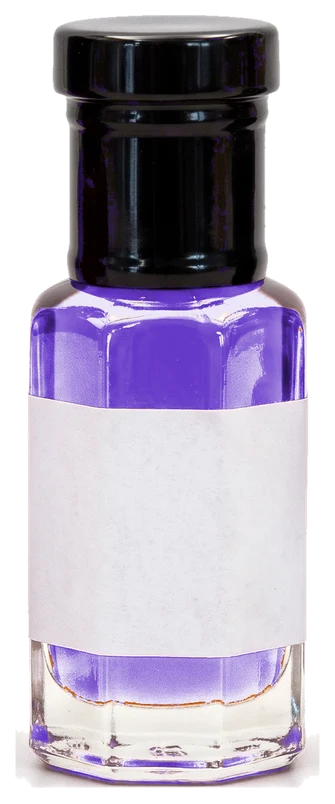
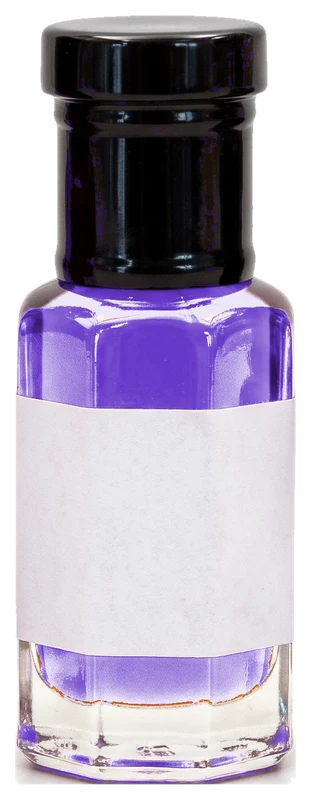
Bottle photos: trim off-white floor reflections beside and under the base; drop the highlight overlay box

Changed region(s): [[0.0289, 0.0312, 0.955, 0.9988], [0.6367, 0.1561, 0.6945, 0.1873], [0.5788, 0.1248, 0.6367, 0.1561]]

diff --git a/components/product/bottle-stage.tsx b/components/product/bottle-stage.tsx
@@ -1,7 +1,7 @@
 "use client";
 
 import { useEffect, useState } from "react";
-import { AnimatePresence, motion, useMotionValue, useReducedMotion, useSpring, useTransform } from "motion/react";
+import { AnimatePresence, motion, useMotionValue, useReducedMotion, useSpring } from "motion/react";
 import { BottlePhoto, bottleHeightRatio } from "./bottle-photo";
 import type { BottleSize } from "@/lib/sizes";
 
@@ -11,7 +11,7 @@ const SETTLE_SECONDS = 1.1;
  * The hero bottle on a product page, using the studio photo. It rises into
  * place with a gentle swing and the label (name, brand, place) fades in as it
  * settles. The bottle also tilts a little toward the pointer (or a finger
- * dragged across it), with a moving shine, so it feels like an object rather
+ * dragged across it), so it feels like an object rather
  * than a flat picture. Choosing another size lifts the current bottle away and
  * the new one rises into its place.
  */
@@ -24,8 +24,6 @@ export function BottleStage({ size, accent, name, brand }: { size: BottleSize; a
   const ty = useMotionValue(0);
   const rotY = useSpring(tx, { stiffness: 120, damping: 16 });
   const rotX = useSpring(ty, { stiffness: 120, damping: 16 });
-  const shine = useMotionValue(50);
-  const shineX = useTransform(useSpring(shine, { stiffness: 120, damping: 20 }), (v) => `${v}%`);
 
   useEffect(() => {
     if (reduce) return;
@@ -40,12 +38,10 @@ export function BottleStage({ size, accent, name, brand }: { size: BottleSize; a
     const y = (e.clientY - r.top) / r.height - 0.5;
     tx.set(x * 34);
     ty.set(-y * 12);
-    shine.set(50 + x * 80);
   };
   const onLeave = () => {
     tx.set(0);
     ty.set(0);
-    shine.set(50);
   };
 
   return (
@@ -71,16 +67,6 @@ export function BottleStage({ size, accent, name, brand }: { size: BottleSize; a
             style={{ height: `${(100 * bottleHeightRatio(size)).toFixed(1)}%`, rotateY: rotY, rotateX: rotX, transformStyle: "preserve-3d" }}
           >
             <BottlePhoto size={size} accent={accent} name={name} brand={brand} priority className="h-full" labelVisible={reduce ? true : labelFor === size} />
-            {/* a soft highlight that slides across the glass as the bottle tilts */}
-            <motion.span
-              aria-hidden
-              className="pointer-events-none absolute inset-0 mix-blend-soft-light"
-              style={{
-                background: "linear-gradient(105deg, transparent 38%, rgba(255,255,255,0.55) 50%, transparent 62%)",
-                backgroundSize: "260% 100%",
-                backgroundPositionX: shineX,
-              }}
-            />
           </motion.div>
         </motion.div>
       </AnimatePresence>

diff --git a/scripts/build-bottle-photos.ts b/scripts/build-bottle-photos.ts
@@ -119,13 +119,31 @@ async function main() {
       }
       if (n >= 14) { yb = y; break; }
     }
-    bottom[band.key] = yb + 3;
+    bottom[band.key] = yb - 2;
   }
   for (let y = 0; y < H; y++)
     for (let x = 0; x < W; x++) {
       const band = bands.find((b) => x >= b.x0 && x <= b.x1);
       if (!band || y > bottom[band.key]) bg[y * W + x] = 1;
     }
+  // Also trim to the bottle's own width: off-white floor reflections at the foot of the glass
+  // (the corners beside the base) would otherwise show as a pale box on coloured backgrounds.
+  for (const band of bands) {
+    let top = H, bot = 0;
+    for (let y = 0; y < H; y++)
+      for (let x = band.x0; x <= band.x1; x++)
+        if (!bg[y * W + x]) { top = Math.min(top, y); bot = Math.max(bot, y); }
+    const lefts: number[] = [], rights: number[] = [];
+    for (let y = top + Math.round((bot - top) * 0.45); y <= top + Math.round((bot - top) * 0.6); y++) {
+      let l = -1, r = -1;
+      for (let x = band.x0; x <= band.x1; x++) if (!bg[y * W + x]) { if (l < 0) l = x; r = x; }
+      if (l >= 0) { lefts.push(l); rights.push(r); }
+    }
+    lefts.sort((a, b) => a - b); rights.sort((a, b) => a - b);
+    const minX = lefts[Math.floor(lefts.length / 2)] - 1, maxX = rights[Math.floor(rights.length / 2)] + 1;
+    for (let y = 0; y < H; y++)
+      for (let x = band.x0; x <= band.x1; x++) if (x < minX || x > maxX) bg[y * W + x] = 1;
+  }
   // Erode the cut-out by 2px so no white halo survives on a coloured background.
   for (let pass = 0; pass < 2; pass++) {
     const grow: number[] = [];
